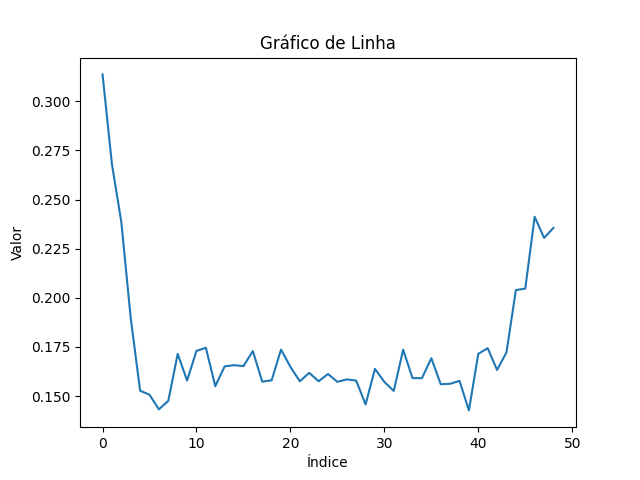
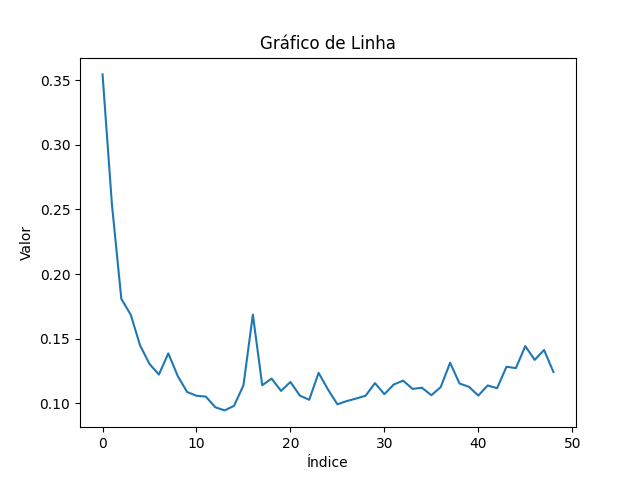
Plot the data

diff --git a/main.cpp b/main.cpp
@@ -28,7 +28,7 @@ int main(){
     arq = fopen("data//times.txt", "a");
 
     std::chrono::duration<double> tempos[100];
-    for (int i=2; i<5; i++){
+    for (int i=2; i<51; i++){
         std::chrono::duration<double> t = testThreads(i);
         double tem = t.count();
         fprintf(arq, "%s", "\n");
